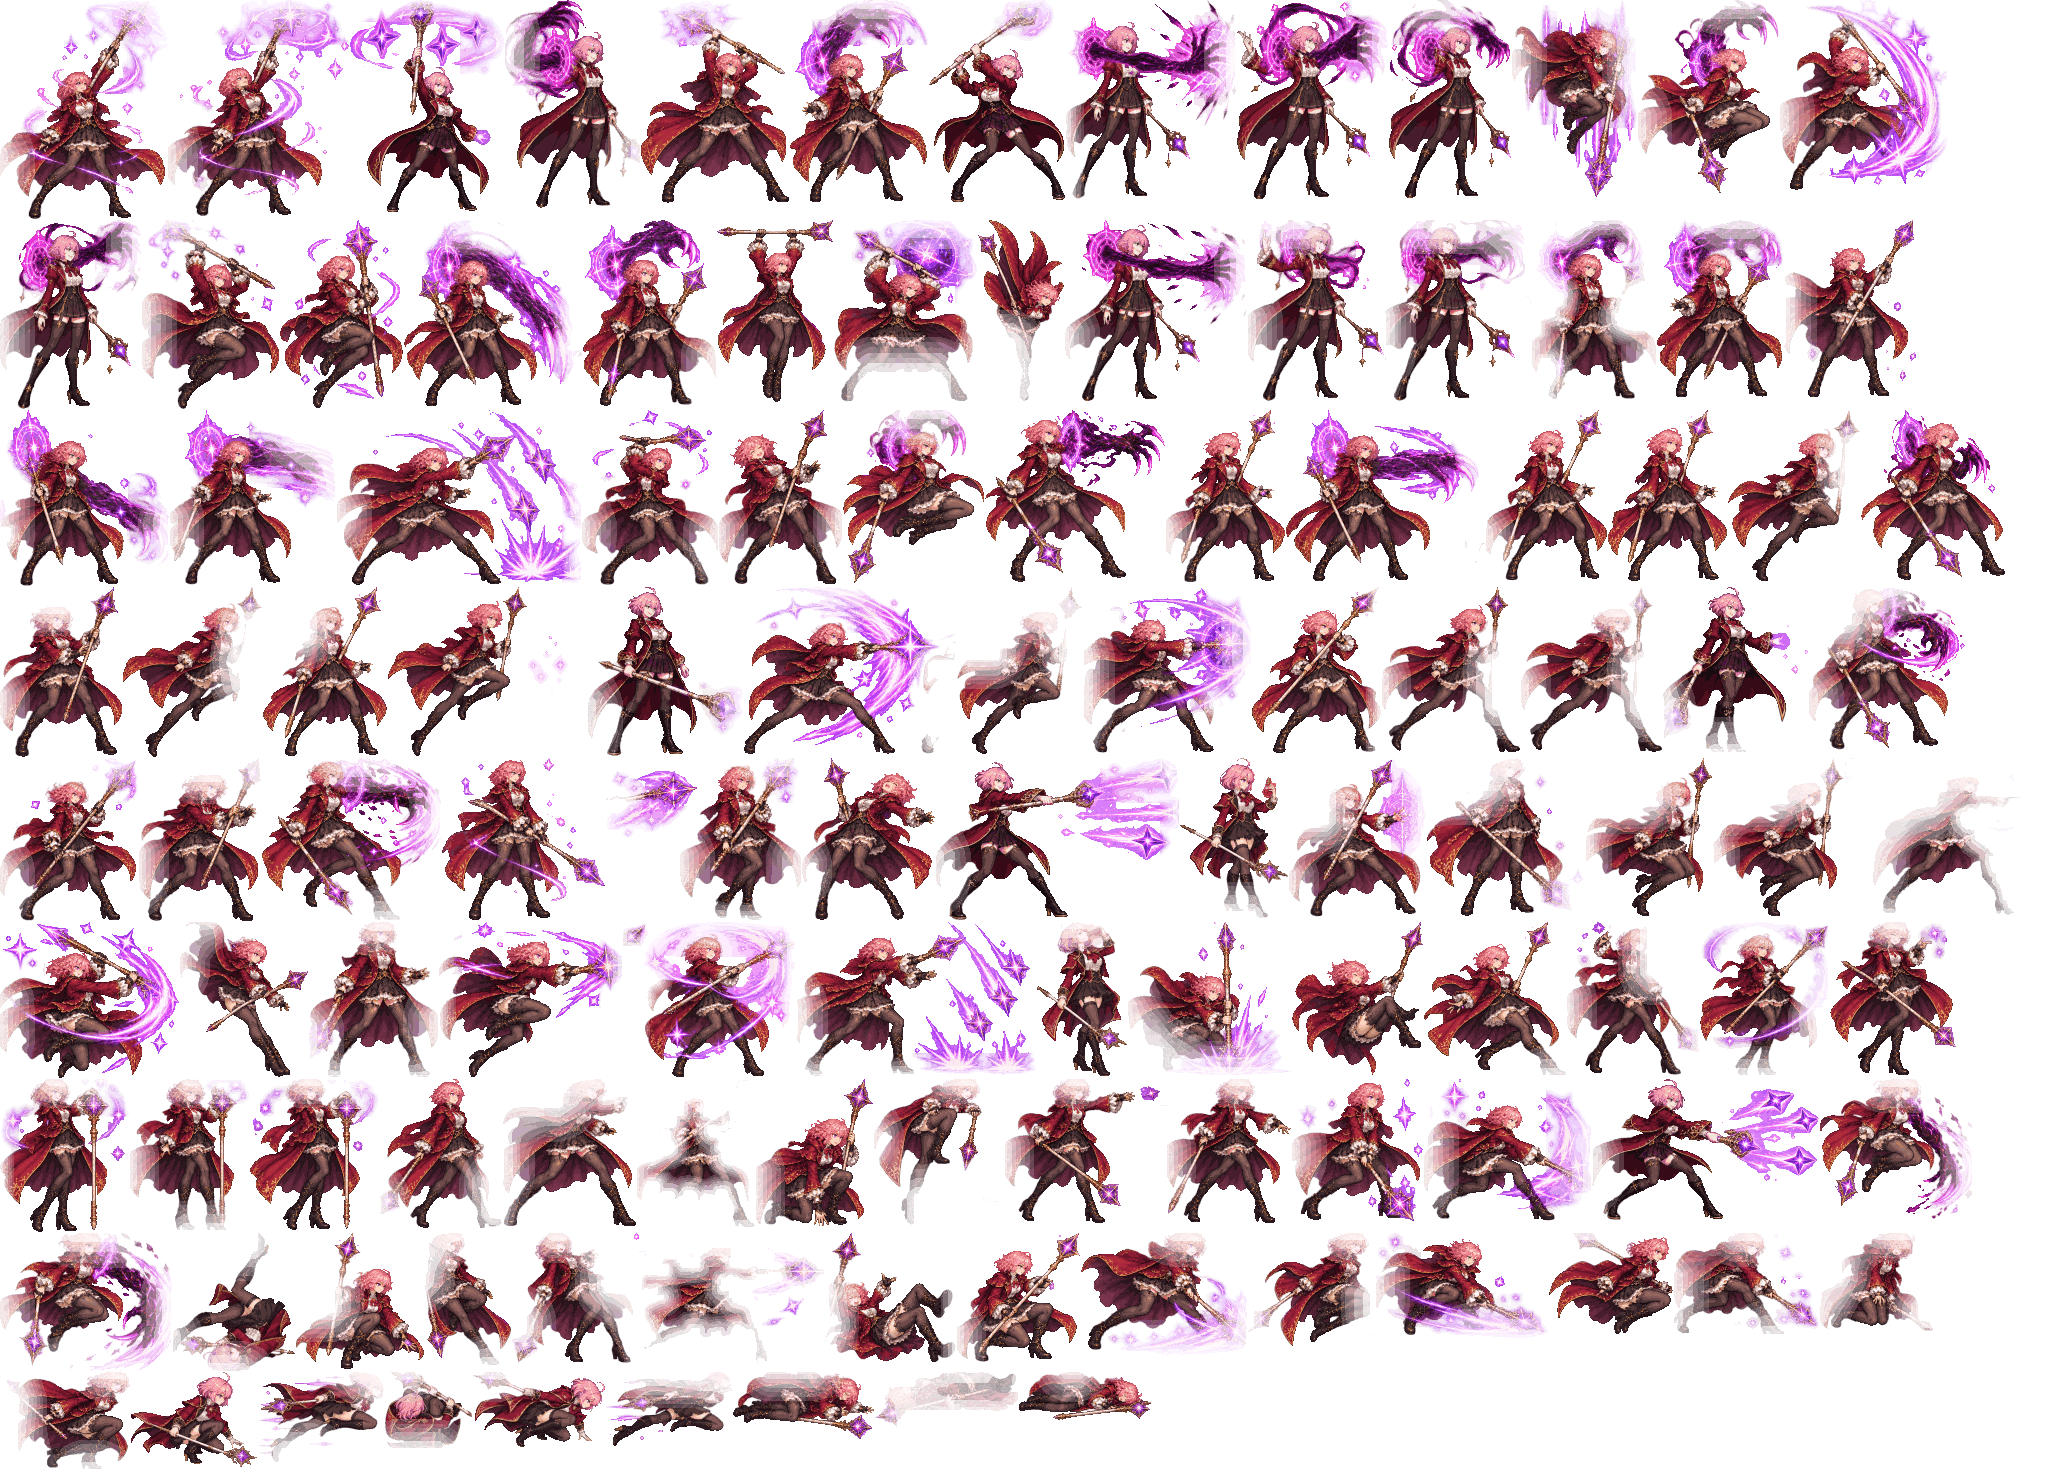
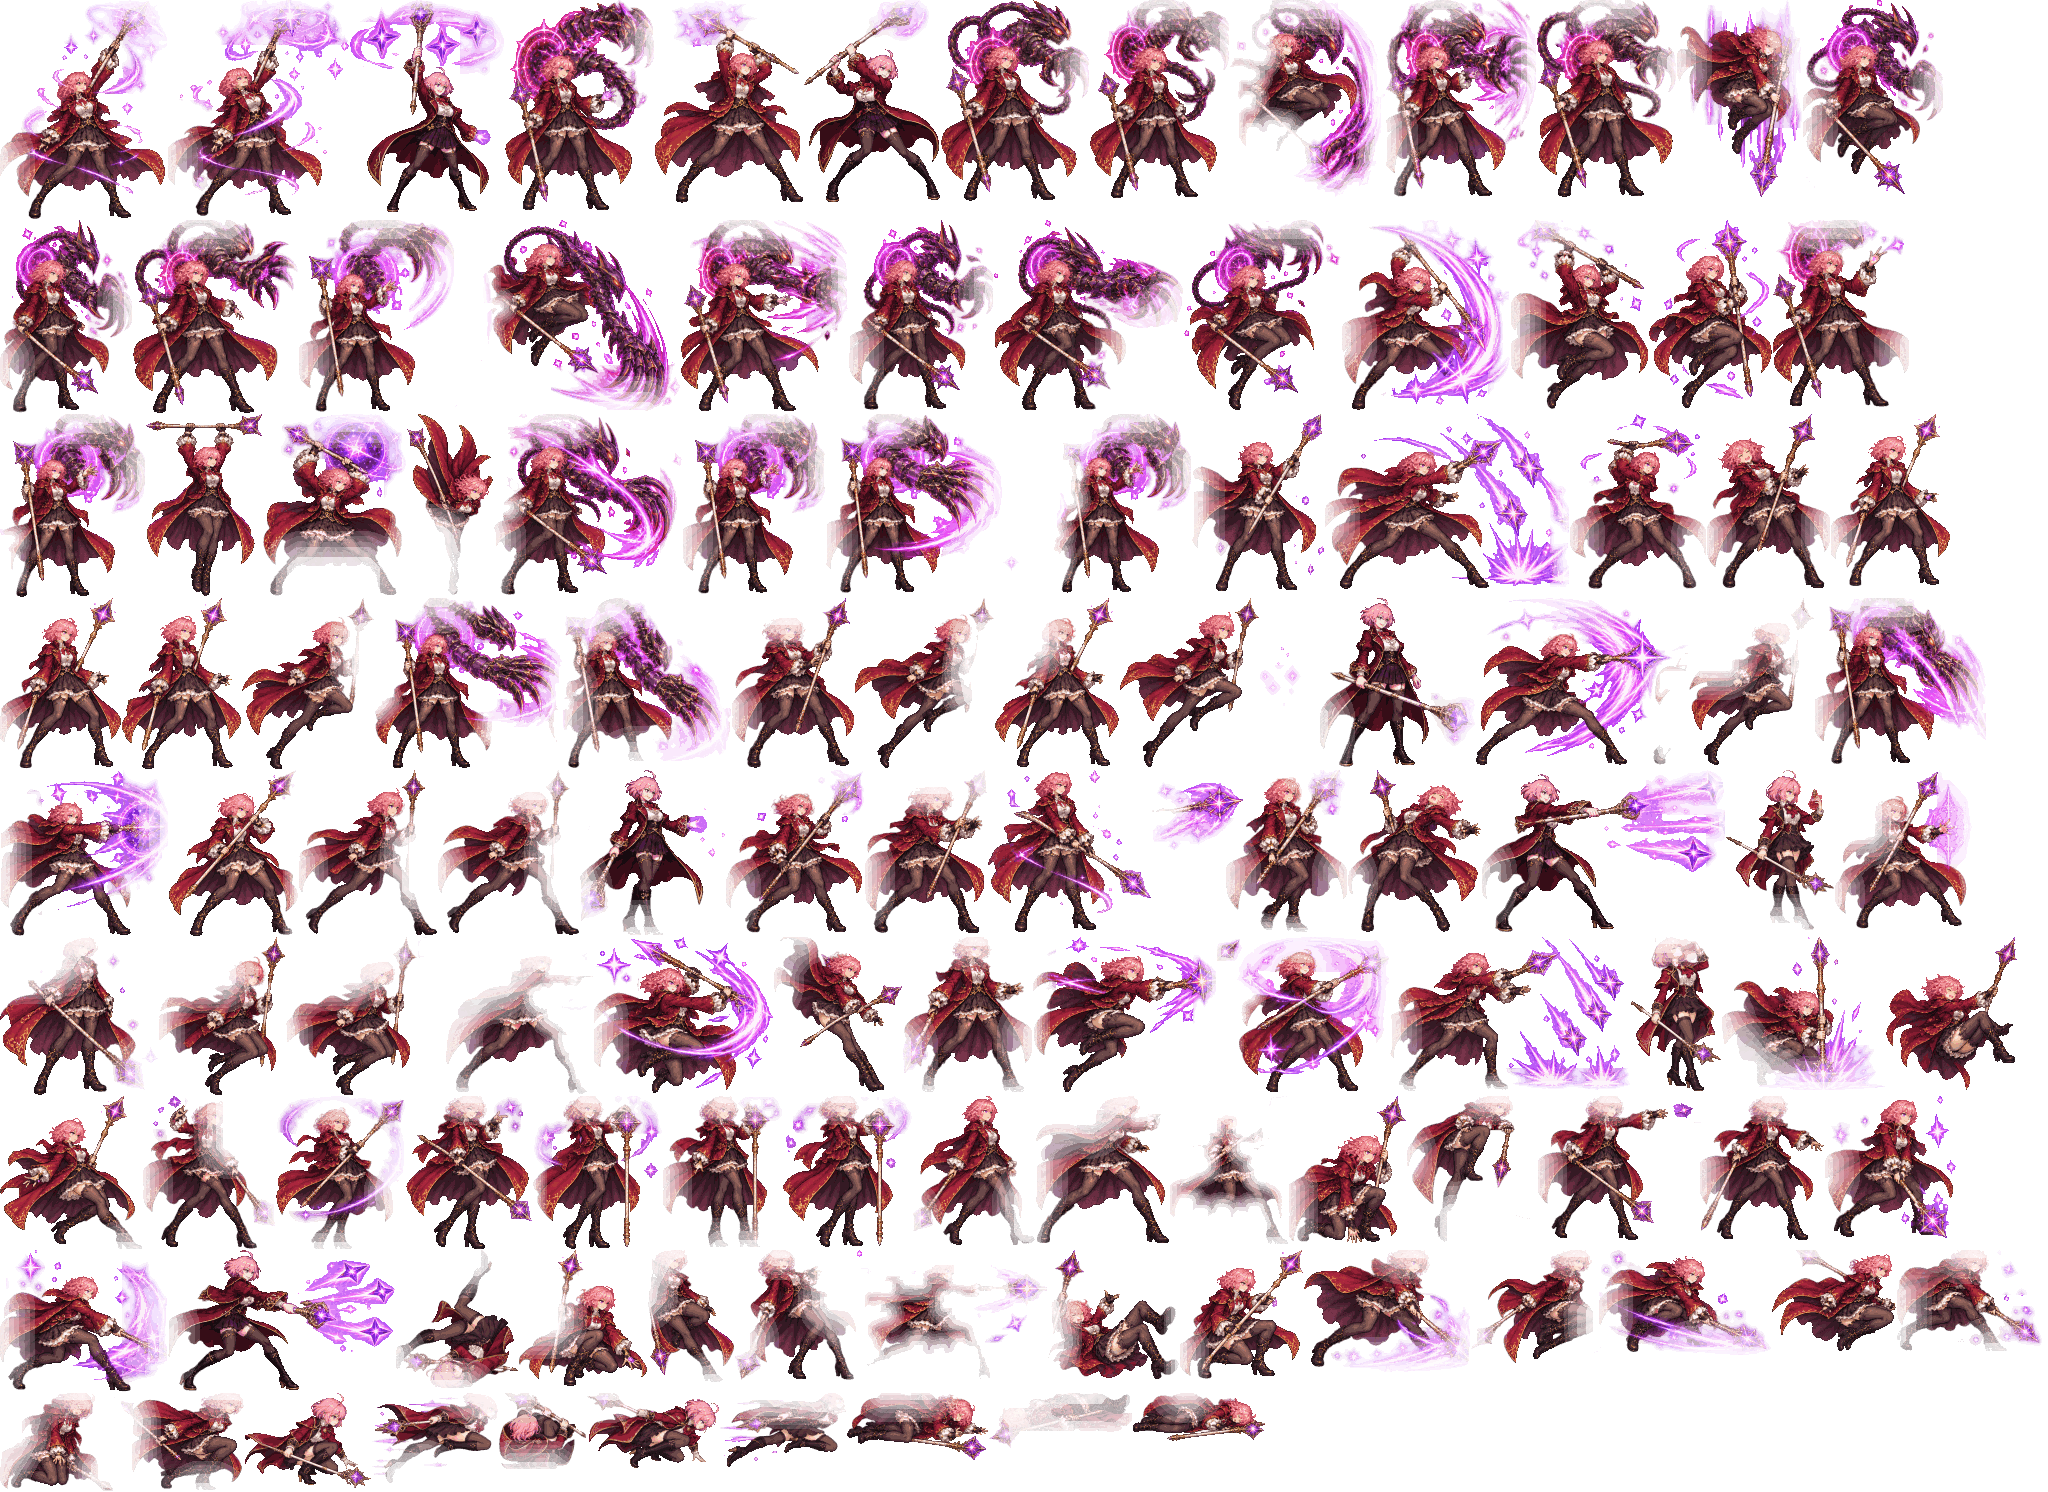
Stance follow-up: Prelati's demon from the owner's reference, reviewer fixes, balance
Prelati's Demon's Hand redrawn as a plated, segmented violet demon with orange eyes (alt-a/b/c regenerated, old
sheets kept in sheets/old-stance-v1). Reviewer fixes: bots no longer throw the Sun Crescent in the axe stance and
re-pick their spacing on a stance change; the desktop heat strip follows the weapon in hand; presssim indexes slots
with weaponAt. Bots switch stance a little more often. Club, rapier tuned: duelsim 41.3-59.1% (target 40-60).

diff --git a/packages/shared/src/weapons.ts b/packages/shared/src/weapons.ts
@@ -372,9 +372,9 @@ export const WEAPONS: WeaponDef[] = [
     blurb: 'Wide, brutal swings; the third slams the ground and breaks guards.',
     base: WeaponId.Hammer,
     combo: [
-      { startup: 8, active: 6, recovery: 14, dmg: 110, box: b(-4, -68, 70, 64), kbX: 260, kbY: 90, stun: 26, step: 60, shake: 0.35 },
-      { startup: 8, active: 6, recovery: 14, dmg: 114, box: b(-4, -68, 70, 64), kbX: 260, kbY: 90, stun: 26, step: 60, shake: 0.35 },
-      { startup: 17, active: 7, recovery: 28, dmg: 170, box: b(-34, -40, 136, 40), kbX: 220, kbY: 420, stun: 42, breaksGuard: true, shake: 0.85 },
+      { startup: 7, active: 6, recovery: 13, dmg: 118, box: b(-4, -68, 70, 64), kbX: 260, kbY: 90, stun: 26, step: 60, shake: 0.35 },
+      { startup: 7, active: 6, recovery: 13, dmg: 122, box: b(-4, -68, 70, 64), kbX: 260, kbY: 90, stun: 26, step: 60, shake: 0.35 },
+      { startup: 15, active: 7, recovery: 25, dmg: 180, box: b(-34, -40, 136, 40), kbX: 220, kbY: 420, stun: 42, breaksGuard: true, shake: 0.85 },
     ],
     air: { startup: 10, active: 8, recovery: 16, dmg: 102, box: b(-12, -66, 66, 72), kbX: 230, kbY: 140, stun: 28, shake: 0.35 },
     plunge: { startup: 12, active: 40, recovery: 22, dmg: 156, box: b(-40, -28, 100, 40), kbX: 250, kbY: 360, stun: 38, plunge: true, shake: 0.85 },
@@ -447,9 +447,9 @@ export const WEAPONS: WeaponDef[] = [
     blurb: 'Long fencing thrusts that crit at the point. Hold to charge a running lunge.',
     base: WeaponId.Lance,
     combo: [
-      { startup: 5, active: 3, recovery: 10, dmg: 54, box: b(10, -52, 72, 18), kbX: 120, kbY: 30, stun: 19, step: 120, tipCrit: true },
-      { startup: 5, active: 3, recovery: 10, dmg: 56, box: b(10, -58, 72, 22), kbX: 120, kbY: 40, stun: 19, step: 120, tipCrit: true },
-      { startup: 9, active: 5, recovery: 18, dmg: 88, box: b(8, -54, 84, 22), kbX: 280, kbY: 120, stun: 28, step: 200, tipCrit: true, shake: 0.35 },
+      { startup: 6, active: 3, recovery: 11, dmg: 50, box: b(10, -52, 72, 18), kbX: 120, kbY: 30, stun: 19, step: 120, tipCrit: true },
+      { startup: 6, active: 3, recovery: 11, dmg: 52, box: b(10, -58, 72, 22), kbX: 120, kbY: 40, stun: 19, step: 120, tipCrit: true },
+      { startup: 9, active: 5, recovery: 18, dmg: 82, box: b(8, -54, 84, 22), kbX: 280, kbY: 120, stun: 28, step: 200, tipCrit: true, shake: 0.35 },
     ],
     air: { startup: 5, active: 6, recovery: 10, dmg: 56, box: b(4, -48, 70, 24), kbX: 140, kbY: 100, stun: 19, tipCrit: true },
     charged: {
@@ -545,7 +545,7 @@ export const WEAPONS: WeaponDef[] = [
     id: WeaponId.ValkyrieSpear,
     name: 'Valkyrie Spear',
     short: 'Spear',
-    blurb: 'Thrusts past the rim of the shield. Hold to hurl the spear (it returns to her hand).',
+    blurb: 'Thrusts past the rim of the shield. Hold to hurl the spear.',
     base: WeaponId.Lance,
     combo: [
       { startup: 7, active: 4, recovery: 13, dmg: 64, box: b(14, -50, 88, 20), kbX: 200, kbY: 40, stun: 21, step: 60 },

diff --git a/packages/shared/src/bot.ts b/packages/shared/src/bot.ts
@@ -279,8 +279,9 @@ export class BotBrain {
   private unstuckT = 0;
   /** Ticks in a row the Rift gauge has been full without its Art being used. */
   private fullT = 0;
-  /** Ticks until the next look at the stance (STANCE: which weapon suits the range). */
+  /** Ticks until the next look at the stance (STANCE: which weapon suits the range), and the stance refreshMode spaced for. */
   private stanceT = 60;
+  private modeStance = 0;
 
   constructor(readonly id: number, seed: number, readonly level: BotDifficulty = 'normal') {
     this.rng = new Rng(seed);
@@ -447,6 +448,11 @@ export class BotBrain {
 
   /** Pick the weapon to space for, every so often: a melee weapon, or the bow. */
   private refreshMode(me: Fighter) {
+    // (a stance change swaps the weapons: space for the new one at once)
+    if (me.s.stance !== this.modeStance) {
+      this.modeStance = me.s.stance;
+      this.modeT = 0;
+    }
     if (this.modeT > 0) {
       this.modeT--;
       return;
@@ -470,7 +476,7 @@ export class BotBrain {
    */
   private stance(me: Fighter, foe: Fighter, g: Geo, cmd: InputCmd, T: Tune): boolean {
     if (this.level === 'easy' || this.prev & Btn.Stance || this.vulnerable(foe) || --this.stanceT > 0) return false;
-    this.stanceT = 70 + this.rng.int(110);
+    this.stanceT = 60 + this.rng.int(90);
     const now = wpn(me, 0);
     const other = weaponAt(me.load, slotFor(0, me.s.stance ? 0 : 1));
     const reachNow = reachOf(now) + HALF;
@@ -478,7 +484,7 @@ export class BotBrain {
     let want = false;
     if (isBow(now) !== isBow(other)) want = isBow(now) ? g.dist < 130 : g.dist > 300;
     else if (!isBow(now)) want = g.dist > reachNow + 50 ? reachOther > reachNow + 10 : g.dist < reachNow * 0.6 && WEAPONS[other].combo[0].startup < WEAPONS[now].combo[0].startup;
-    if (!want && this.rng.next() < 0.12) want = true;
+    if (!want && this.rng.next() < 0.25) want = true;
     if (!want || this.rng.next() >= T.attack + 0.25) return false;
     // (not into a swing of theirs: the change takes STANCE.flip ticks before anything can cancel it)
     if (swingAt(me, foe) || g.dist < 50 + STANCE.flip * 4) return false;
@@ -830,7 +836,7 @@ export class BotBrain {
     }
     // the Sun Crescent (Richard's heavy) flung from middle range while it is ready
     if (
-      hasCrescent(me.load) && s.ground && !s.reload && g.facing && Math.abs(g.dy) < 40 && g.dist > 90 && g.dist < 320 &&
+      hasCrescent(me.load) && !s.stance && s.ground && !s.reload && g.facing && Math.abs(g.dy) < 40 && g.dist > 90 && g.dist < 320 &&
       !(this.prev & Btn.B) && this.rng.next() < (vuln ? T.punish : T.ranged * 0.6)
     ) {
       cmd.buttons |= Btn.B;

diff --git a/packages/shared/test/stance.test.ts b/packages/shared/test/stance.test.ts
@@ -170,21 +170,23 @@ describe('stance on the wire', () => {
 
 describe('bots and the stance', () => {
   it('bots switch stance during a fight', () => {
-    const w = new World({ arenaId: 'training', wins: 2, roundTime: 90 });
-    const a = w.addFighter(1, 0, 'A', sanitizeLoadout({ hero: 2 }), true);
-    const b = w.addFighter(2, 1, 'B', sanitizeLoadout({ hero: 3 }), true);
-    const ba = new BotBrain(1, 11, 'hard');
-    const bb = new BotBrain(2, 12, 'hard');
-    w.start();
     let swaps = 0;
-    for (let t = 0; t < 60 * 60 && w.phase !== 'end'; t++) {
-      a.inputs.push(ba.think(w));
-      b.inputs.push(bb.think(w));
-      const before = [a.s.act, b.s.act];
-      w.step();
-      if (a.s.act === Act.Swap && before[0] !== Act.Swap) swaps++;
-      if (b.s.act === Act.Swap && before[1] !== Act.Swap) swaps++;
+    for (let seed = 1; seed <= 3; seed++) {
+      const w = new World({ arenaId: 'training', wins: 2, roundTime: 90 });
+      const a = w.addFighter(1, 0, 'A', sanitizeLoadout({ hero: 2 }), true);
+      const b = w.addFighter(2, 1, 'B', sanitizeLoadout({ hero: 3 }), true);
+      const ba = new BotBrain(1, seed * 7, 'hard');
+      const bb = new BotBrain(2, seed * 13, 'hard');
+      w.start();
+      for (let t = 0; t < 60 * 90 && w.phase !== 'end'; t++) {
+        a.inputs.push(ba.think(w));
+        b.inputs.push(bb.think(w));
+        const before = [a.s.act, b.s.act];
+        w.step();
+        if (a.s.act === Act.Swap && before[0] !== Act.Swap) swaps++;
+        if (b.s.act === Act.Swap && before[1] !== Act.Swap) swaps++;
+      }
     }
-    expect(swaps).toBeGreaterThan(2);
+    expect(swaps).toBeGreaterThan(4);
   });
 });

diff --git a/tools/presssim.ts b/tools/presssim.ts
@@ -12,7 +12,7 @@
 // It also flags swings cut short (the move ends before its full length with no hit taken, no chain and no walk-out).
 import { ROUND } from '../packages/shared/src/constants';
 import { Act, moveOf, MOVE_PLUNGE } from '../packages/shared/src/fighter';
-import { heroClass, HEROES, sanitizeLoadout } from '../packages/shared/src/heroes';
+import { heroClass, HEROES, sanitizeLoadout, weaponAt } from '../packages/shared/src/heroes';
 import { Btn, type InputCmd } from '../packages/shared/src/input';
 import { World } from '../packages/shared/src/world';
 
@@ -112,7 +112,7 @@ function run(h: number, sc: Scenario, tapAt: number, btn: number, len = 150): Tr
     if ((s.act === Act.Charge || s.act === Act.Block) && lastAct !== s.act) started = 1;
     // (a plunge skips to its recovery when it lands, so it is never "short")
     if (lastAct === Act.Attack && s.act !== Act.Attack && curMove >= 0 && curMove !== MOVE_PLUNGE && !hit && !started && s.moveSeq === lastSeq) {
-      const m = moveOf(a.load.weapons[s.slot], curMove);
+      const m = moveOf(weaponAt(a.load, s.slot), curMove);
       if (m) {
         const ran = world.tick - moveStart;
         const rec = m.recovery * heroClass(a.load).recovery;

diff --git a/packages/client/src/ui/Hud.ts b/packages/client/src/ui/Hud.ts
@@ -1,4 +1,4 @@
-import { ARTS, classOf, FIGHTER, GameEvent, hasCrescent, heroClass, heroOf, isRanged, RIFT, RosterEntry, SKILLS, WEAPONS } from '@bladerift/shared';
+import { ARTS, classOf, FIGHTER, GameEvent, hasCrescent, heroClass, heroOf, isRanged, RIFT, RosterEntry, SKILLS, slotFor, WEAPONS } from '@bladerift/shared';
 import type { NetGame, ViewFighter } from '../net/NetGame';
 import { colorOf, css } from './colors';
 import { artIconOf, skillIcon, weaponIcon } from './icons';
@@ -226,7 +226,9 @@ export class Hud {
       }
       s.lastHp = hp;
       // ranged heroes: the heat their shots build, red while the weapon cools from an overheat
-      const ranged = !!f && !!WEAPONS[f.weapons[0]] && isRanged(WEAPONS[f.weapons[0]]);
+      // (the weapon in hand: a stance weapon that shoots, like Cu Chulainn's darts, builds heat too)
+      const wIn = f ? WEAPONS[f.weapons[slotFor(0, f.stance ?? 0)]] : undefined;
+      const ranged = !!wIn && isRanged(wIn);
       s.root.classList.toggle('ranged', ranged);
       if (ranged && f) {
         s.heatFill.style.width = Math.min(1, f.heat / FIGHTER.heatMax) * 100 + '%';
